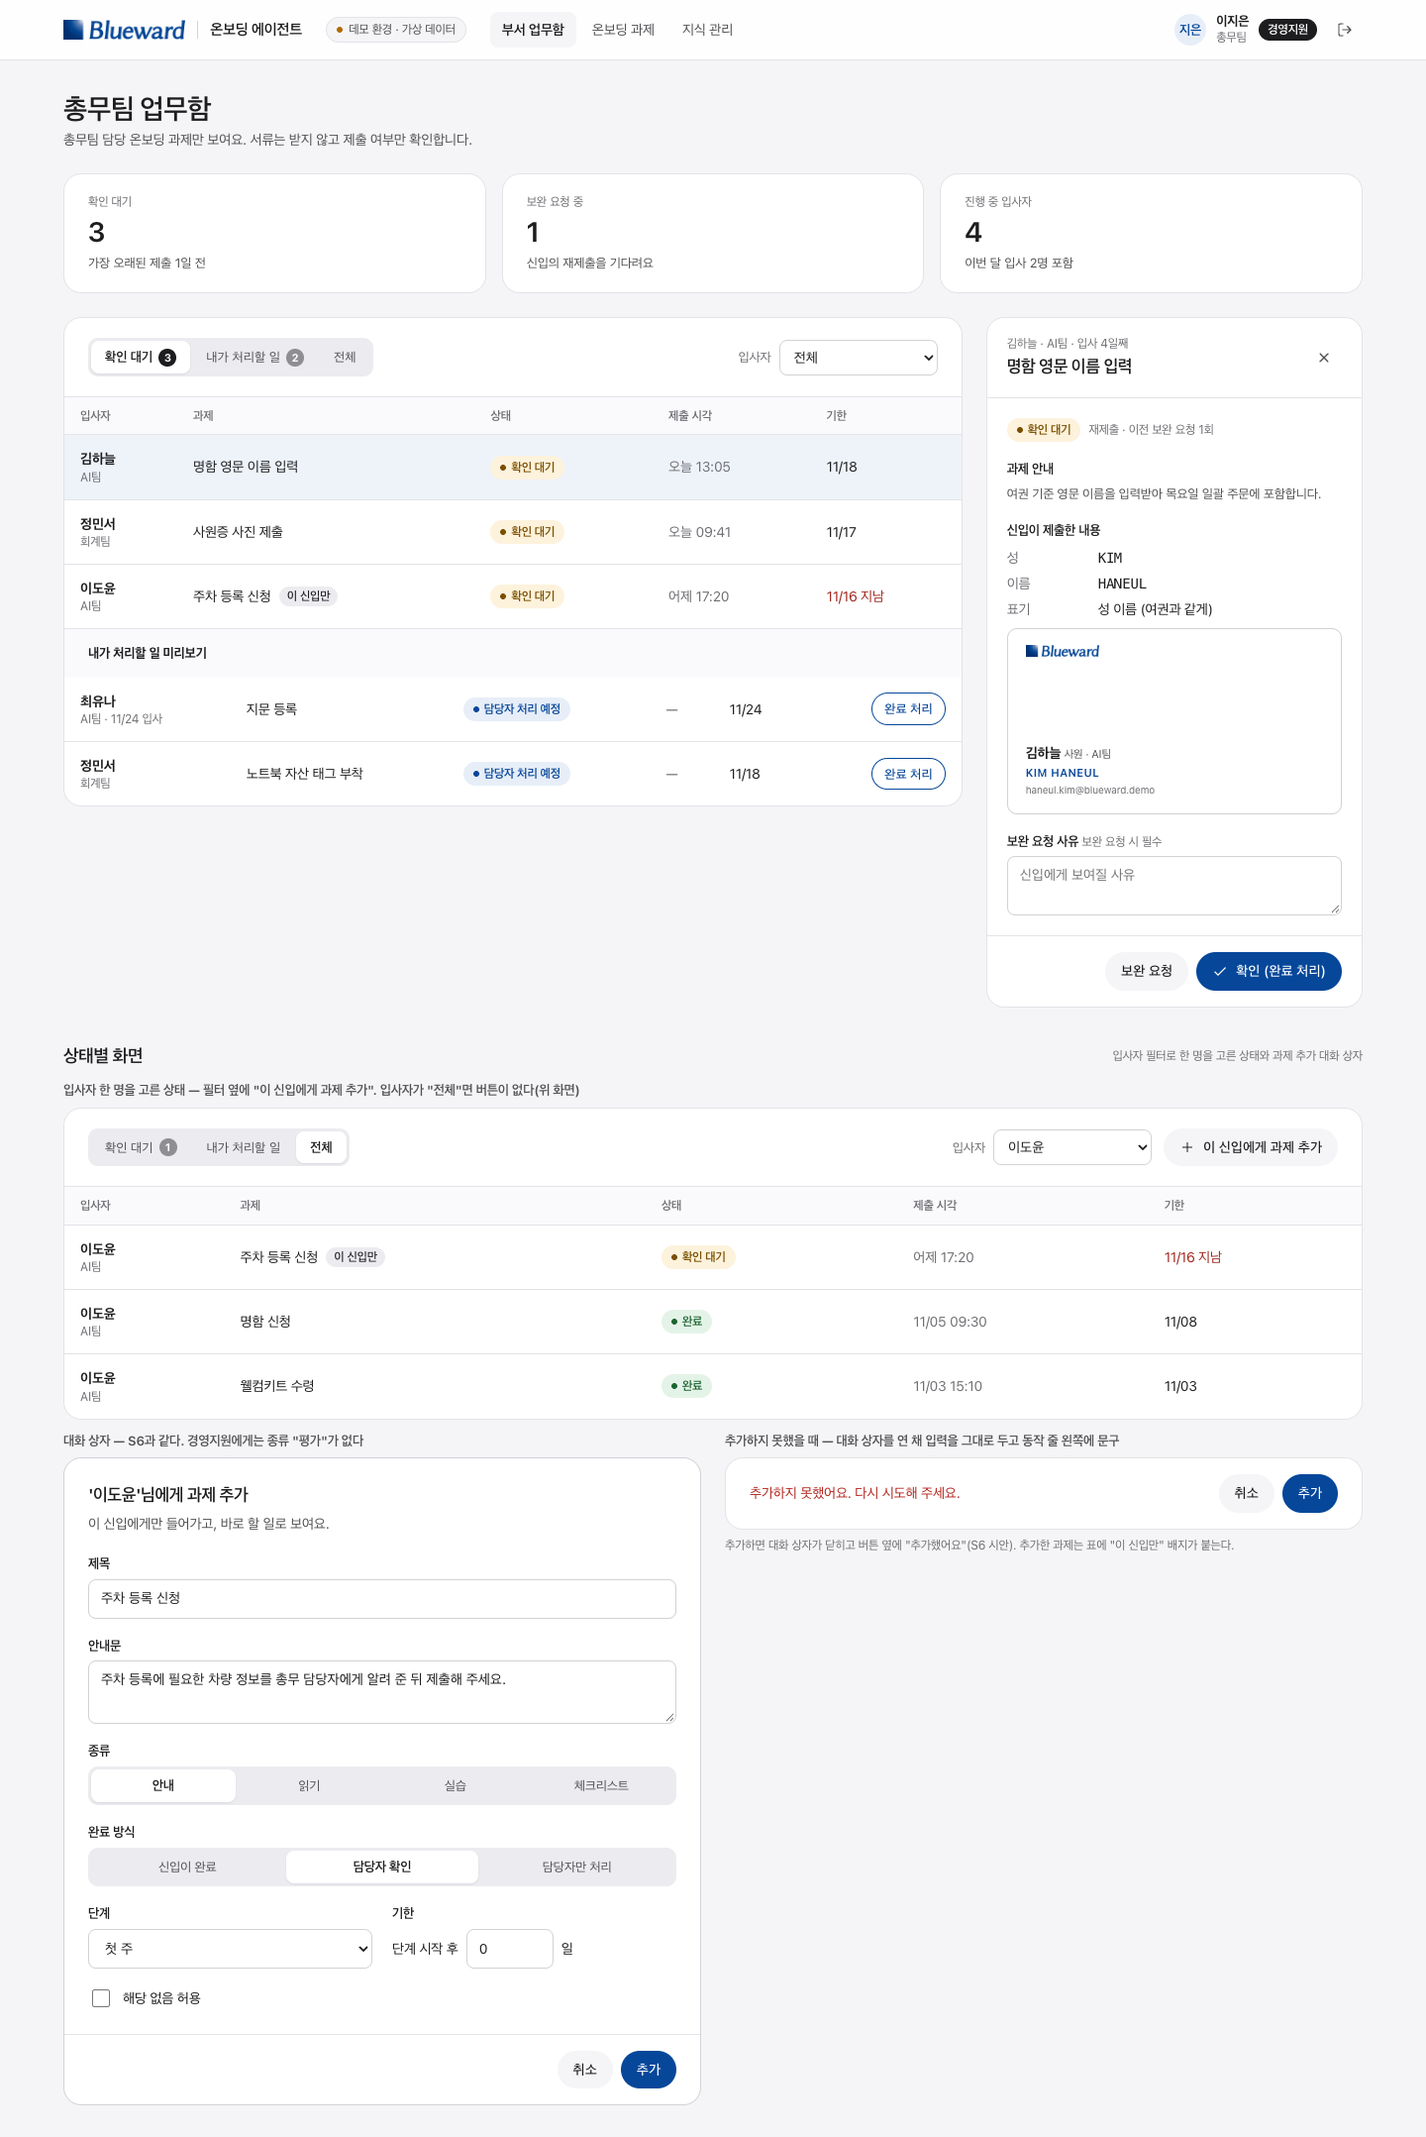
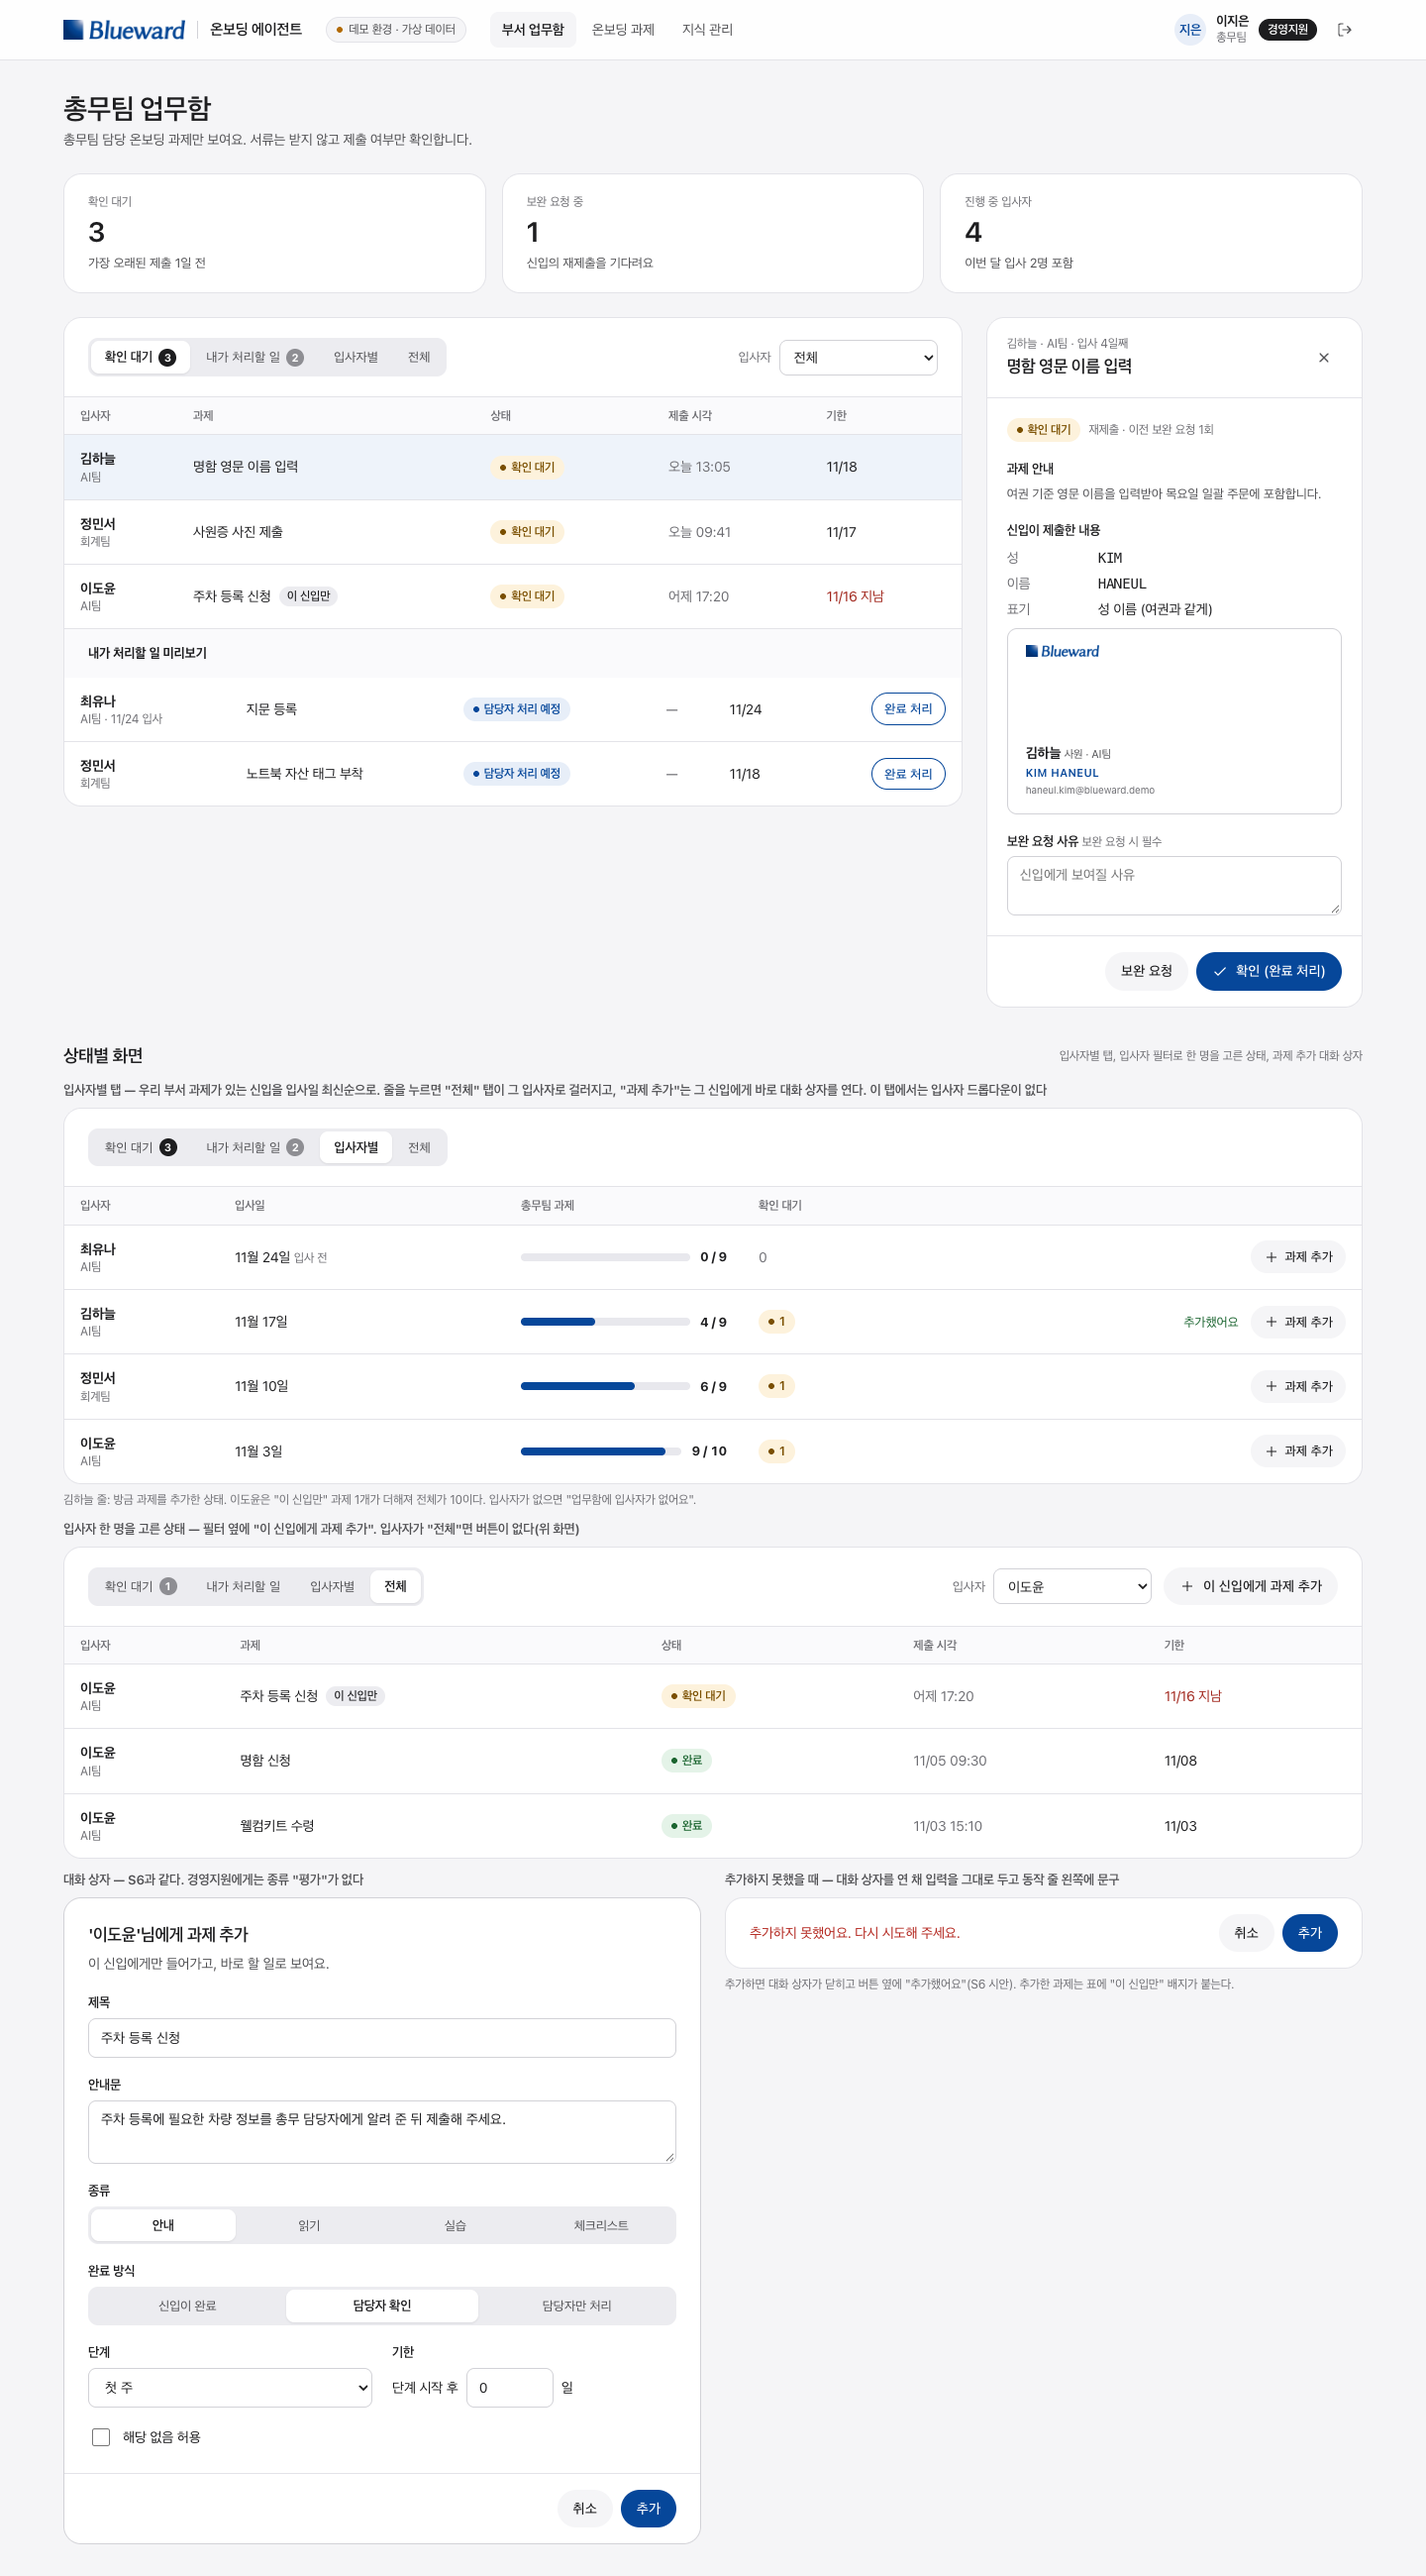
docs(design): S9 hire tab for adding a one-off task from the hire list

diff --git a/docs/design/onboarding-design/screens/S9-ops.html b/docs/design/onboarding-design/screens/S9-ops.html
@@ -48,7 +48,7 @@ a{color:var(--primary)}a:hover{color:var(--primary-pressed)}
     <div class="split">
       <section class="card split-main" style="gap: 0">
         <div class="card-hd">
-          <div class="tabs" role="tablist"><button type="button" class="on" role="tab" aria-selected="true">확인 대기 <span class="count">3</span></button><button type="button" role="tab">내가 처리할 일 <span class="count" style="background: var(--disabled-fg)">2</span></button><button type="button" role="tab">전체</button></div>
+          <div class="tabs" role="tablist"><button type="button" class="on" role="tab" aria-selected="true">확인 대기 <span class="count">3</span></button><button type="button" role="tab">내가 처리할 일 <span class="count" style="background: var(--disabled-fg)">2</span></button><button type="button" role="tab">입사자별</button><button type="button" role="tab">전체</button></div>
           <label class="row" style="gap: 8px; font-size: 13px"><span class="muted">입사자</span><select class="select" style="min-height: 36px; padding: 6px 10px; width: 160px"><option>전체</option><option>김하늘</option><option>이도윤</option><option>최유나</option><option>정민서</option></select></label>
         </div>
         <div class="tbl-wrap">
@@ -94,14 +94,34 @@ a{color:var(--primary)}a:hover{color:var(--primary-pressed)}
       </aside>
     </div>
 
-    <!-- 상태별 화면: 입사자를 한 명 고르면 "이 신입에게 과제 추가"가 보인다 -->
+    <!-- 상태별 화면: 입사자별 탭, 입사자를 한 명 고른 상태, 과제 추가 대화 상자 -->
     <section style="display: flex; flex-direction: column; gap: 12px; margin-top: 12px">
-      <div class="between"><h2 style="font-size: 18px">상태별 화면</h2><span class="caption">입사자 필터로 한 명을 고른 상태와 과제 추가 대화 상자</span></div>
+      <div class="between"><h2 style="font-size: 18px">상태별 화면</h2><span class="caption">입사자별 탭, 입사자 필터로 한 명을 고른 상태, 과제 추가 대화 상자</span></div>
+      <div class="col" style="gap: 8px">
+        <span class="state-label">입사자별 탭 — 우리 부서 과제가 있는 신입을 입사일 최신순으로. 줄을 누르면 "전체" 탭이 그 입사자로 걸러지고, "과제 추가"는 그 신입에게 바로 대화 상자를 연다. 이 탭에서는 입사자 드롭다운이 없다</span>
+        <section class="card" style="overflow: hidden">
+          <div class="card-hd">
+            <div class="tabs" role="tablist"><button type="button" role="tab" aria-selected="false">확인 대기 <span class="count">3</span></button><button type="button" role="tab" aria-selected="false">내가 처리할 일 <span class="count" style="background: var(--disabled-fg)">2</span></button><button type="button" class="on" role="tab" aria-selected="true">입사자별</button><button type="button" role="tab" aria-selected="false">전체</button></div>
+          </div>
+          <div class="tbl-wrap">
+            <table class="tbl">
+              <thead><tr><th>입사자</th><th>입사일</th><th style="width: 240px">총무팀 과제</th><th>확인 대기</th><th aria-label="동작"></th></tr></thead>
+              <tbody>
+                <tr><td><b>최유나</b><div class="caption">AI팀</div></td><td>11월 24일 <span class="caption">입사 전</span></td><td><div class="row" style="gap: 10px"><div class="bar" style="flex: 1"><span style="width: 0%"></span></div><b style="font-size: 13px; font-variant-numeric: tabular-nums">0 / 9</b></div></td><td class="muted">0</td><td style="text-align: right"><button class="btn btn-ghost btn-xs" type="button" aria-haspopup="dialog" aria-label="'최유나'님에게 과제 추가"><svg class="ic" viewBox="0 0 24 24" aria-hidden="true"><path d="M12 5v14M5 12h14"></path></svg>과제 추가</button></td></tr>
+                <tr><td><b>김하늘</b><div class="caption">AI팀</div></td><td>11월 17일</td><td><div class="row" style="gap: 10px"><div class="bar" style="flex: 1"><span style="width: 44%"></span></div><b style="font-size: 13px; font-variant-numeric: tabular-nums">4 / 9</b></div></td><td><span class="st st-submitted">1</span></td><td style="text-align: right"><span class="row" style="gap: 12px; justify-content: flex-end"><span role="status" style="font-size: 13px; color: var(--st-done-fg)">추가했어요</span><button class="btn btn-ghost btn-xs" type="button" aria-haspopup="dialog" aria-label="'김하늘'님에게 과제 추가"><svg class="ic" viewBox="0 0 24 24" aria-hidden="true"><path d="M12 5v14M5 12h14"></path></svg>과제 추가</button></span></td></tr>
+                <tr><td><b>정민서</b><div class="caption">회계팀</div></td><td>11월 10일</td><td><div class="row" style="gap: 10px"><div class="bar" style="flex: 1"><span style="width: 67%"></span></div><b style="font-size: 13px; font-variant-numeric: tabular-nums">6 / 9</b></div></td><td><span class="st st-submitted">1</span></td><td style="text-align: right"><button class="btn btn-ghost btn-xs" type="button" aria-haspopup="dialog" aria-label="'정민서'님에게 과제 추가"><svg class="ic" viewBox="0 0 24 24" aria-hidden="true"><path d="M12 5v14M5 12h14"></path></svg>과제 추가</button></td></tr>
+                <tr><td><b>이도윤</b><div class="caption">AI팀</div></td><td>11월 3일</td><td><div class="row" style="gap: 10px"><div class="bar" style="flex: 1"><span style="width: 90%"></span></div><b style="font-size: 13px; font-variant-numeric: tabular-nums">9 / 10</b></div></td><td><span class="st st-submitted">1</span></td><td style="text-align: right"><button class="btn btn-ghost btn-xs" type="button" aria-haspopup="dialog" aria-label="'이도윤'님에게 과제 추가"><svg class="ic" viewBox="0 0 24 24" aria-hidden="true"><path d="M12 5v14M5 12h14"></path></svg>과제 추가</button></td></tr>
+              </tbody>
+            </table>
+          </div>
+        </section>
+        <span class="caption">김하늘 줄: 방금 과제를 추가한 상태. 이도윤은 "이 신입만" 과제 1개가 더해져 전체가 10이다. 입사자가 없으면 "업무함에 입사자가 없어요".</span>
+      </div>
       <div class="col" style="gap: 8px">
         <span class="state-label">입사자 한 명을 고른 상태 — 필터 옆에 "이 신입에게 과제 추가". 입사자가 "전체"면 버튼이 없다(위 화면)</span>
         <section class="card" style="overflow: hidden">
           <div class="card-hd">
-            <div class="tabs" role="tablist"><button type="button" role="tab" aria-selected="false">확인 대기 <span class="count" style="background: var(--disabled-fg)">1</span></button><button type="button" role="tab" aria-selected="false">내가 처리할 일</button><button type="button" class="on" role="tab" aria-selected="true">전체</button></div>
+            <div class="tabs" role="tablist"><button type="button" role="tab" aria-selected="false">확인 대기 <span class="count" style="background: var(--disabled-fg)">1</span></button><button type="button" role="tab" aria-selected="false">내가 처리할 일</button><button type="button" role="tab" aria-selected="false">입사자별</button><button type="button" class="on" role="tab" aria-selected="true">전체</button></div>
             <div class="row" style="gap: 12px; flex-wrap: wrap">
               <label class="row" style="gap: 8px; font-size: 13px"><span class="muted">입사자</span><select class="select" style="min-height: 36px; padding: 6px 10px; width: 160px"><option>전체</option><option>김하늘</option><option selected>이도윤</option><option>최유나</option><option>정민서</option></select></label>
               <button class="btn btn-ghost btn-sm" type="button" aria-haspopup="dialog"><svg class="ic" viewBox="0 0 24 24" aria-hidden="true"><path d="M12 5v14M5 12h14"></path></svg>이 신입에게 과제 추가</button>

diff --git a/docs/superpowers/specs/2026-11-19-ops-hire-view-design.md b/docs/superpowers/specs/2026-11-19-ops-hire-view-design.md
@@ -1,0 +1,42 @@
+# 부서 업무함 입사자별 탭 설계 (경영지원의 한 사람 과제 추가)
+
+작성일: 2026-11-19 · 상태: 방향 B 선택(사용자), 시안 Leo 확인 대기. 근거: `2026-11-18-onboarding-plan-design.md` 5.3·5.4절을 고친다.
+
+## 1. 의도
+
+경영지원 담당자가 특정 신입에게 한 사람용 과제를 주려면 지금은 부서 업무함(S9)에서 "입사자" 드롭다운으로 한 명을 골라야 "이 신입에게 과제 추가" 버튼이 나타난다. 고르기 전에는 이 기능이 있다는 단서가 없다. 교육 담당자에게는 신입 중심 화면(S5→S6)이 있지만 경영지원에게는 과제 중심 표만 있다.
+
+경영지원 담당자는 대개 특정 신입을 염두에 두고 들어온다(사용자 판단). SuccessFactors Onboarding의 "신입 목록 → 그 신입의 동작" 흐름처럼, **신입을 보고 판단한 뒤 그 줄에서 바로 과제를 추가**하게 한다.
+
+## 2. 목표 / 비목표 / 실패 조건
+
+**목표**
+1. S9에 "입사자별" 탭: 우리 부서 과제가 있는 신입을 한 줄씩, 입사일·우리 부서 과제 진행·확인 대기 수와 함께 보인다.
+2. 각 줄의 "과제 추가"로 지금과 같은 대화 상자를 연다.
+3. 줄을 누르면 "전체" 탭이 그 입사자로 걸러진다.
+
+**비목표**: 경영지원용 입사자 상세 화면·새 경로·새 메뉴, 여러 신입에게 한 번에 추가, 과제 먼저 고르는 흐름, RPC·RLS·마이그레이션 변경, 기존 입사자 드롭다운·버튼 제거.
+
+**실패 조건**: 과제 추가 대화 상자를 쓰다가 탭이 바뀐다. 다른 부서·팀 과제가 진행·확인 대기 수에 섞인다. 기존 탭 3개의 동작이 바뀐다.
+
+## 3. 접근 방식
+
+| 방식 | 내용 | 장단점 |
+|---|---|---|
+| A. 버튼 항상 보이기 | 버튼을 늘 보이고 대화 상자 첫 칸에서 신입 선택 | 가장 작다. 신입을 고를 때 입사일·진행이 안 보여 과제 먼저 흐름에 가깝다 |
+| **B. 입사자별 탭 (선택)** | S9에 탭 하나, 줄마다 "과제 추가" | 신입을 보고 판단. 데이터는 이미 화면에 있다. S9 시안 수정 필요 |
+| C. 경영지원 입사자 목록·상세 신설 | `/ops/hires`, `/ops/hires/:id` | 가장 완결. 화면 둘·메뉴·시안 둘, 업무함 "전체" 탭과 겹친다. 심사 기간에 크다 |
+
+## 4. 정한 것
+
+- 탭 순서 `확인 대기 · 내가 처리할 일 · 입사자별 · 전체`. 기본 탭은 그대로 "확인 대기".
+- 열: 입사자(이름·팀) · 입사일 · 우리 부서 과제(진행 막대 + `완료 / 전체`, 완료는 done·na) · 확인 대기 · 동작 "과제 추가".
+- 대상은 지금 드롭다운 후보와 같다(우리 부서 과제가 있는 신입). 입사일 최신순.
+- 줄을 누르거나 Enter → "전체" 탭 + 그 입사자 필터.
+- "과제 추가" 버튼의 보이는 글자는 "과제 추가", 접근 이름은 `'이름'님에게 과제 추가`. 대화 상자는 지금과 같다(평가 없음). 추가하면 버튼 옆에 "추가했어요".
+- 입사자별 탭에서는 입사자 드롭다운을 숨긴다(표가 곧 입사자 목록).
+- 비어 있음: "업무함에 입사자가 없어요".
+
+## 5. 만드는 사람에게 맡기는 것
+
+입사자 표 컴포넌트 구성, 테스트 픽스처. 대화 상자 안의 클릭이 React 이벤트로 줄까지 올라오지 않게 동작 칸에서 막는다.
